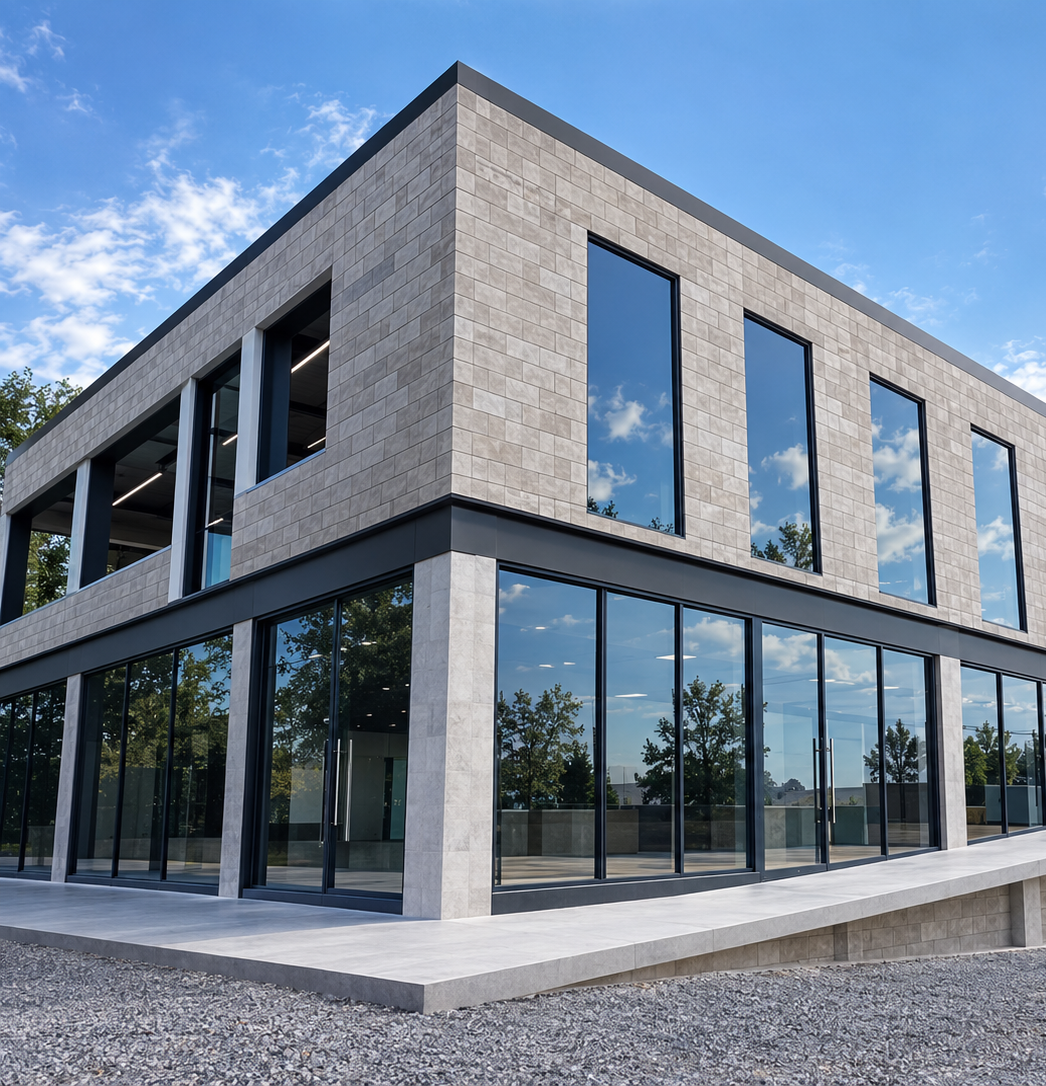
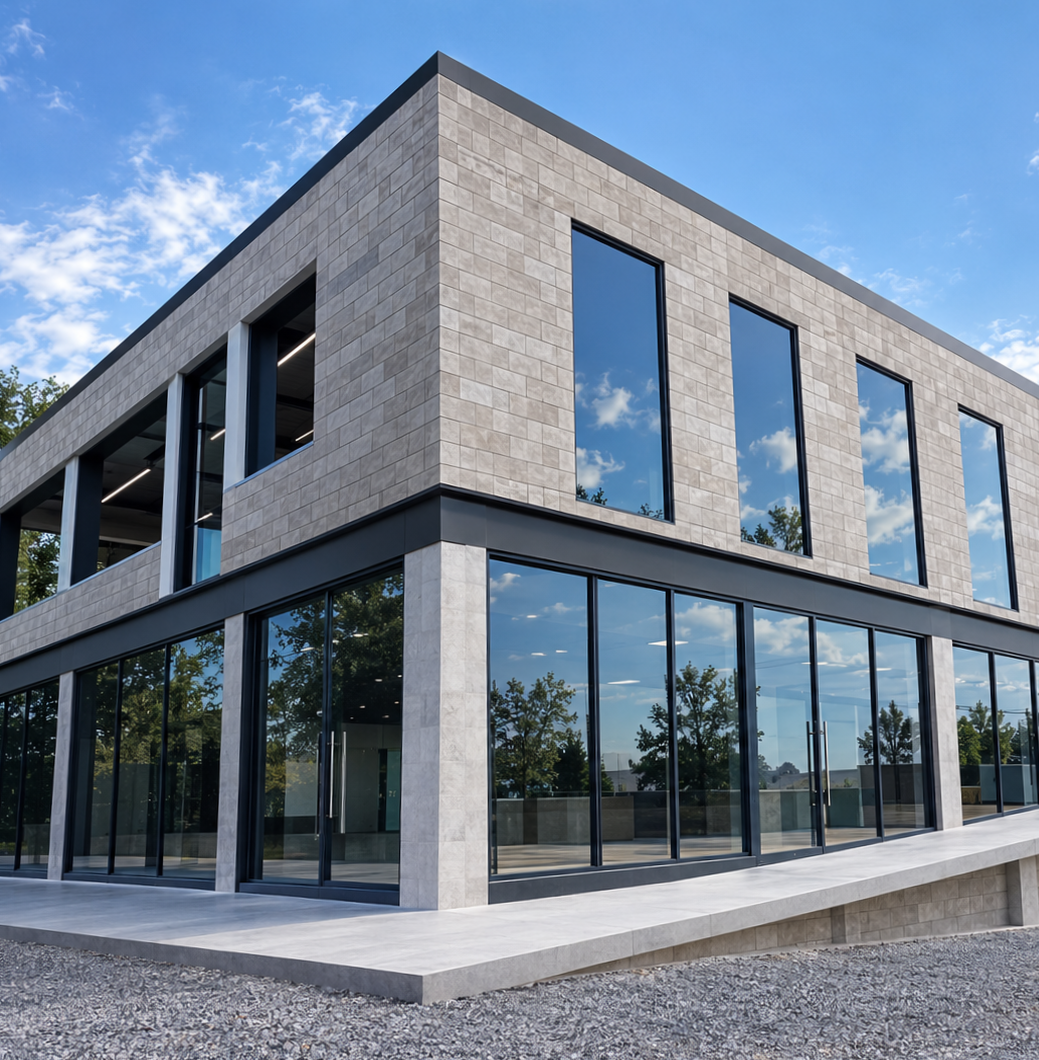
update version 7-d4 ima

diff --git a/src/styles/home.css b/src/styles/home.css
@@ -770,7 +770,7 @@
       to bottom,
       transparent 0%,
       #000 8%,
-      #000 %,
+      #000 60%,
       transparent 100%
     );
     -webkit-mask-composite: source-over;
